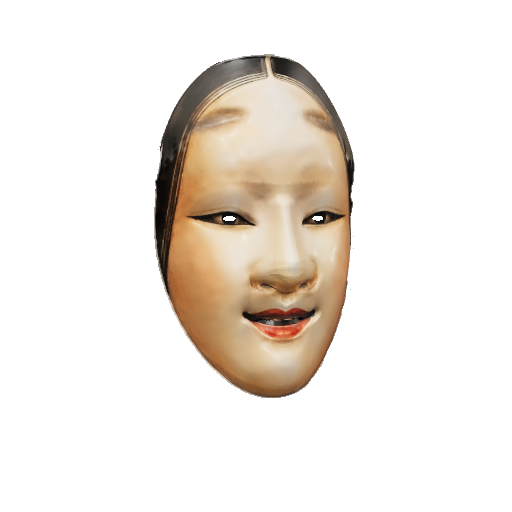
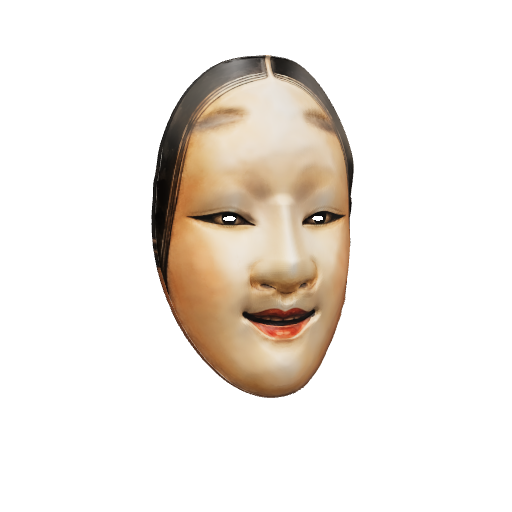
Give the masks a thick carved rim
- The shell now ends at the painted edge, so its rim closes the mask
- A rounded rim about 8 mm deep, painted with the mask's own colours
- Smooth the face surface the masks rest on (no blocky patch on Hannya's nose)
- Slightly softer clear-coat so studio lights do not reflect as hard squares

diff --git a/js/build.js b/js/build.js
@@ -43,27 +43,39 @@ function frontGeometry(H, O){
   return g;
 }
 
-// The edge rolls over and the back follows the front at a mask's thickness.
-function backGeometry(H, O, thick = 0.42){
+// The edge rolls over into a thick rim, as on a carved mask, and the back follows the
+// front at the shell's thickness. The rim (`lip` deep at the edge) is its own group so it
+// can wear the front's paint; its texture is read a little inside the edge, where the
+// paint is solid.
+function backGeometry(H, O, thick = 0.42, lip = 0.85){
   const hb = (x, y) => Math.min(H.h(x, y) - thick, baseZ(x, y) + 0.35 * Math.max(H.feat(x, y), 0) - thick);
-  const rings = [];
+  const rings = [], ringUV = [];
   const Rs = Array.from({ length: NT }, (_, j) => O.R((j / NT) * TAU));
-  const ring = (f) => Array.from({ length: NT }, (_, j) => f((j / NT) * TAU, Rs[j]));
+  const ring = (f, inset = null) => {
+    rings.push(Array.from({ length: NT }, (_, j) => f((j / NT) * TAU, Rs[j])));
+    ringUV.push(inset === null ? null : Array.from({ length: NT }, (_, j) => edge((j / NT) * TAU, Rs[j] - inset)));
+  };
   const edge = (t, R) => [Math.cos(t) * R, O.cy + Math.sin(t) * R];
-  rings.push(ring((t, R) => { const [x, y] = edge(t, R); return [x, y, H.h(x, y)]; }));
-  rings.push(ring((t, R) => { const [x, y] = edge(t, R + 0.09); return [x, y, H.h(...edge(t, R)) - 0.2]; }));
-  rings.push(ring((t, R) => { const [x, y] = edge(t, R + 0.05); return [x, y, H.h(...edge(t, R)) - thick - 0.05]; }));
-  rings.push(ring((t, R) => { const [x, y] = edge(t, R - 0.2); return [x, y, hb(x, y)]; }));
+  const fz = (t, R) => H.h(...edge(t, R));
+  ring((t, R) => [...edge(t, R), fz(t, R)], 0.3);
+  ring((t, R) => [...edge(t, R + 0.07), fz(t, R) - 0.14], 0.3);              // the rounded lip
+  ring((t, R) => [...edge(t, R + 0.1), fz(t, R) - lip * 0.5], 0.3);
+  ring((t, R) => [...edge(t, R + 0.06), fz(t, R) - lip], 0.3);               // the rim's back edge
+  ring((t, R) => { const [x, y] = edge(t, R - 0.5); return [x, y, Math.min(hb(x, y), fz(t, R) - lip * 0.9)]; });
   const NB = 40;
   for (let i = NB - 1; i >= 1; i--){
-    const r = (i / NB) * ((Rs[0] - 0.2) / Rs[0]);
-    rings.push(ring((t, R) => { const x = Math.cos(t) * r * R, y = O.cy + Math.sin(t) * r * R; return [x, y, hb(x, y)]; }));
+    const r = (i / NB) * ((Rs[0] - 0.5) / Rs[0]);
+    ring((t, R) => { const x = Math.cos(t) * r * R, y = O.cy + Math.sin(t) * r * R; return [x, y, hb(x, y)]; });
   }
   const pos = [], uv = [], idx = [];
-  for (const rg of rings) for (const [x, y, z] of rg){ pos.push(x, y, z); uv.push((x + SPAN / 2) / SPAN, (y + SPAN / 2) / SPAN); }
+  rings.forEach((rg, i) => rg.forEach(([x, y, z], j) => {
+    const [u, v] = ringUV[i] ? ringUV[i][j] : [x, y];
+    pos.push(x, y, z); uv.push((u + SPAN / 2) / SPAN, (v + SPAN / 2) / SPAN);
+  }));
   const c = pos.length / 3;
   pos.push(0, O.cy, hb(0, O.cy)); uv.push(0.5, (O.cy + SPAN / 2) / SPAN);
   const at = (i, j) => i * NT + (j % NT);
+  const RIM = 3; // the rim's strips; the rest is the back
   for (let i = 0; i < rings.length - 1; i++) for (let j = 0; j < NT; j++){
     const a = at(i, j), b = at(i + 1, j), cc = at(i + 1, j + 1), d = at(i, j + 1);
     idx.push(a, b, cc, a, cc, d);
@@ -74,8 +86,36 @@ function backGeometry(H, O, thick = 0.42){
   g.setAttribute('position', new THREE.Float32BufferAttribute(pos, 3));
   g.setAttribute('uv', new THREE.Float32BufferAttribute(uv, 2));
   g.setIndex(idx);
+  g.addGroup(0, RIM * NT * 6, 0);
+  g.addGroup(RIM * NT * 6, idx.length - RIM * NT * 6, 1);
   g.computeVertexNormals();
   return g;
+}
+
+// A painted mask's own edge: going round the outline, the outermost painted point (read
+// from the paint's alpha), smoothed, never beyond the outline. The shell then ends where
+// the paint ends, so its rim closes the mask instead of being cut away.
+function paintedOutline(O, alphaCanvas){
+  const n = alphaCanvas.width, d = alphaCanvas.getContext('2d', { willReadFrequently: true }).getImageData(0, 0, n, n).data;
+  const at = (x, y) => {
+    const px = Math.floor((x + SPAN / 2) / SPAN * n), py = Math.floor((SPAN / 2 - y) / SPAN * n);
+    return px < 0 || py < 0 || px >= n || py >= n ? 0 : d[(py * n + px) * 4];
+  };
+  const M = 720, raw = new Float32Array(M);
+  for (let k = 0; k < M; k++){
+    const t = (k / M) * TAU, R0 = O.R(t), c = Math.cos(t), s = Math.sin(t);
+    let r = R0;
+    while (r > R0 * 0.35 && at(c * r, O.cy + s * r) < 140) r -= 0.025;
+    raw[k] = r;
+  }
+  // smooth round the edge (wisps of hair or a stray speck should not make spikes)
+  const sm = new Float32Array(M), W = 4;
+  for (let k = 0; k < M; k++){ let s = 0; for (let q = -W; q <= W; q++) s += raw[(k + q + M) % M]; sm[k] = s / (2 * W + 1); }
+  const R = (t) => {
+    const f = ((t / TAU) % 1 + 1) % 1 * M, k = Math.floor(f), w = f - k;
+    return Math.min(O.R(t), sm[k % M] * (1 - w) + sm[(k + 1) % M] * w - 0.08);
+  };
+  return { R, cy: O.cy };
 }
 
 // ------------------------------------------------------------------ textures
@@ -297,9 +337,10 @@ export function buildMask(def, { maxAniso = 4, size = TEX } = {}){
   const t0 = performance.now();
   const features = def.features();
   const H = heightField(features);
-  const O = outline(def.outline);
+  const O0 = outline(def.outline);
   const holes = features.filter((f) => f.k === 'hole');
-  const tex = paint(def, H, O, holes, size);
+  const tex = paint(def, H, O0, holes, size);
+  const O = def.photo ? paintedOutline(O0, tex.alpha) : O0;
   const L = def.look;
 
   const map = texture(tex.albedo, true, maxAniso), orm = texture(tex.orm, false, maxAniso), nmap = texture(tex.normal, false, maxAniso);
@@ -309,14 +350,19 @@ export function buildMask(def, { maxAniso = 4, size = TEX } = {}){
     roughness: 1, metalness: 1, alphaTest: 0.5, envMapIntensity: L.env ?? 0.55,
     // painted masks get a crisp lacquer coat: tight highlights that show the carved form
     clearcoat: def.photo ? Math.max(L.clearcoat ?? 0, 0.3) : L.clearcoat ?? 0.15,
-    clearcoatRoughness: def.photo ? Math.min(L.ccRough ?? 1, 0.22) : L.ccRough ?? 0.4,
+    clearcoatRoughness: def.photo ? Math.min(L.ccRough ?? 1, 0.32) : L.ccRough ?? 0.4,
     sheen: L.sheen ?? 0, sheenColor: new THREE.Color(L.sheenColor || '#ffffff'), sheenRoughness: 0.6,
   });
   const back = new THREE.MeshStandardMaterial({ color: L.back || '#2a170c', roughness: 0.5, metalness: 0.05, alphaMap: amap, alphaTest: 0.5 });
   const g = new THREE.Group();
   g.name = def.id;
+  // the rim wears the front's paint, a shade darker where it turns away from the light
+  const rimMat = new THREE.MeshPhysicalMaterial({
+    map, color: '#c9bcb0', roughness: 0.5, metalness: 0, envMapIntensity: L.env ?? 0.55,
+    clearcoat: front.clearcoat, clearcoatRoughness: front.clearcoatRoughness,
+  });
   const fm = new THREE.Mesh(frontGeometry(H, O), front);
-  const bm = new THREE.Mesh(backGeometry(H, O), back);
+  const bm = new THREE.Mesh(backGeometry(H, O), [rimMat, back]);
   fm.name = 'front'; bm.name = 'back';
   g.add(fm, bm);
   def.extras?.(g, { H, O, THREE, rng: rng(def.seed + 11), maps: { map, orm, nmap } });

diff --git a/js/face-fit.js b/js/face-fit.js
@@ -85,7 +85,10 @@ function sample(arr, x, y){
   const i = u | 0, j = v | 0, fx = u - i, fy = v - j, k = j * N + i;
   return (arr[k] * (1 - fx) + arr[k + 1] * fx) * (1 - fy) + (arr[k + N] * (1 - fx) + arr[k + N + 1] * fx) * fy;
 }
-export const faceZ = (x, y) => sample(RAW, x, y);
+// lightly smoothed: the raw raster is stepped cell by cell, and a mask pressed against
+// it (a nose resting on the wearer's nose) would show the steps as blocky shading
+const SOFT = blur(RAW, 2);
+export const faceZ = (x, y) => sample(SOFT, x, y);
 export const faceShell = (x, y) => sample(SMOOTH, x, y);
 // The shell masks are carved from: 3.5 mm in front of the smoothed face. Over the nose it
 // uses a much flatter version, because each mask carves its own nose on top.

diff --git a/README.md b/README.md
@@ -44,7 +44,8 @@ The look of each mask follows the reference paintings supplied for this project.
 No 3D model files are downloaded: each mask is built in the browser from its painting.
 
 - **The surface.** Each mask is a shell carved over the wearer's face (MindAR's face
-  model), a few millimetres off the skin. The painting's light and shade add relief on
+  model), a few millimetres off the skin. Its edge follows the painted edge and rolls over
+  into a thick, rounded rim (about 8 mm), so from the side it reads as a solid carved mask. The painting's light and shade add relief on
   top, and a few carved features add what a painting cannot: a nose that stands out,
   bulging eyeballs, cheeks and a mouth set back. Spy-holes are cut where the pupils are.
 - **The paint.** The cleaned painting is projected onto the shell from the front, with the
